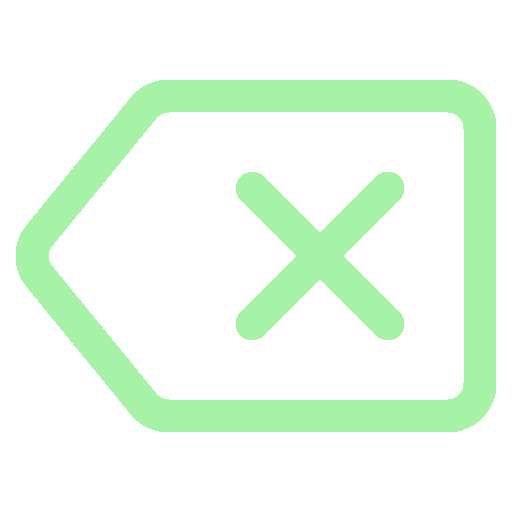
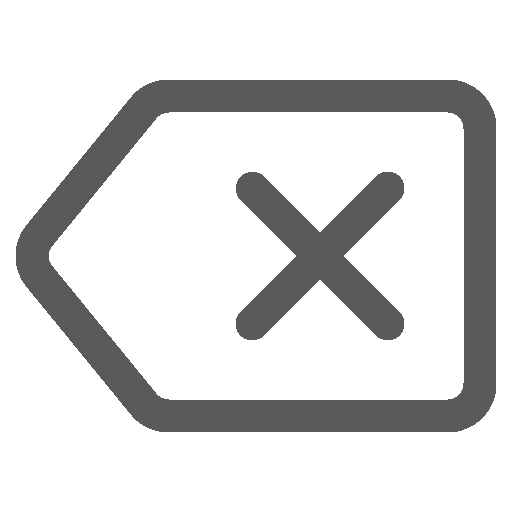
Finish backspace function

Changed region(s): [[0.0312, 0.1562, 0.9688, 0.8438], [0.4375, 0.3125, 0.8125, 0.6875]]

diff --git a/script.js b/script.js
@@ -171,6 +171,10 @@ function previewOperation(){
     if (!currentequation.currentState.funct && preview.length){
         if(newnum) preview.push(newnum);
         let solution = operate(preview);
+        if(division){
+            loadSolution('', ".solution");
+            return;
+        }
         solution = Math.round((solution + Number.EPSILON) * 100) / 100;
         if(solution.toString().length > 15) solution = expo(solution, 15);
         console.log(`hi solo ${solution} solution length ${solution.toString().length}`);
@@ -267,7 +271,10 @@ function loadBackspace(){
         if(currentnum.toString().length == 1){
             currentnum = null;
             unloadState();
-            loadInput()
+            unloadFunction();
+            unloadNumber();
+            loadInput();
+            previewOperation();
             return;
         }
         else{
@@ -276,6 +283,7 @@ function loadBackspace(){
             currentnum = newnum.toString().replace(',','');
             console.log(`backspace num ${currentnum}`);
             loadInput();
+            previewOperation();
             return;
         }
     }
@@ -286,8 +294,10 @@ function loadBackspace(){
         if(currentnum.toString().length == 1){
             currentnum = null;
             unloadState();
-
-            loadInput()
+            unloadFunction();
+            unloadNumber();
+            loadInput();
+            previewOperation();
             return;
         }
         else{
@@ -296,13 +306,34 @@ function loadBackspace(){
             currentnum = newnum.toString().replace(',','');
             console.log(`backspace num ${currentnum}`);
             loadInput();
+            previewOperation();
             return;
     }
 }
 }
 
 function unloadFunction(){
-    currentequation;
+    let functions = ['%','x','-','+','÷']
+    for(let i = 0; i < functions.length; i++ ){
+        if(currentequation.equation[currentequation.equation.length - 1] == functions[i]){
+            currentnum = currentequation.equation.pop();
+            currentequation.state.pop();
+            console.log(`function found`);
+            return;
+        }
+    }
+    return;
+}
+
+function unloadNumber(){
+    if(!currentnum){
+        if(currentequation.currentState.num){
+            currentnum = currentequation.equation.pop();
+            currentequation.state.pop();
+            return;
+        }
+    }
+    return;
 }
 
 function unloadState(){
@@ -448,9 +479,22 @@ function loadSolution(value, destination){
     return;
 }
 
+function loadBackspaceImage(){
+    const backspace = document.querySelector('.backspace');
+    if(!currentnum && !currentequation.equation.length){
+        backspace.src = 'images/backspace-sleep.png';
+        return;
+    }
+    else{
+        backspace.src = 'images/backspace.png';
+        return;
+    }
+}
+
 function loadInput(){
     let input = document.querySelector('.input');
     let display = loadDisplay();
+    loadBackspaceImage();
     input.innerHTML = display;
     return;
 }
@@ -534,14 +578,15 @@ function loadDisplay(){
                 lengths++;
                 continue;
             }
-            let convert = Number(currentequation.equation[i])
+            let convert = Number(currentequation.equation[i]);
+            convert = convert.toLocaleString("en-US");
             let check = currentequation.equation[i].toString().split('');
             if(check[check.length - 1] == '.'){
                 convert = convert + '.';
             }
             if(convert.toString().length > 15) convert = expo(convert, 15);
             lengths += currentequation.equation[i].length;
-            display = display + `<span>${convert.toLocaleString("en-US").toLocaleUpperCase()}</span>`;
+            display = display + `<span>${convert.toLocaleUpperCase()}</span>`;
         }
         functcheck = false;
     }
@@ -556,12 +601,13 @@ function loadDisplay(){
         if(!functcheck){
             lengths += currentnum.toString().length;
             let convert = Number(currentnum);
+            convert = convert.toLocaleString("en-US");
             let check = currentnum.toString().split('');
             if(check[check.length - 1] == '.'){
                 convert = convert + '.';
             }
             if(convert.toString().length > 15) convert = expo(convert, 15);
-            display = display + `<span>${convert.toLocaleString("en-US").toLocaleUpperCase()}</span>`;
+            display = display + `<span>${convert.toLocaleUpperCase()}</span>`;
         }
     }
     console.log(`length here ${lengths}`);
